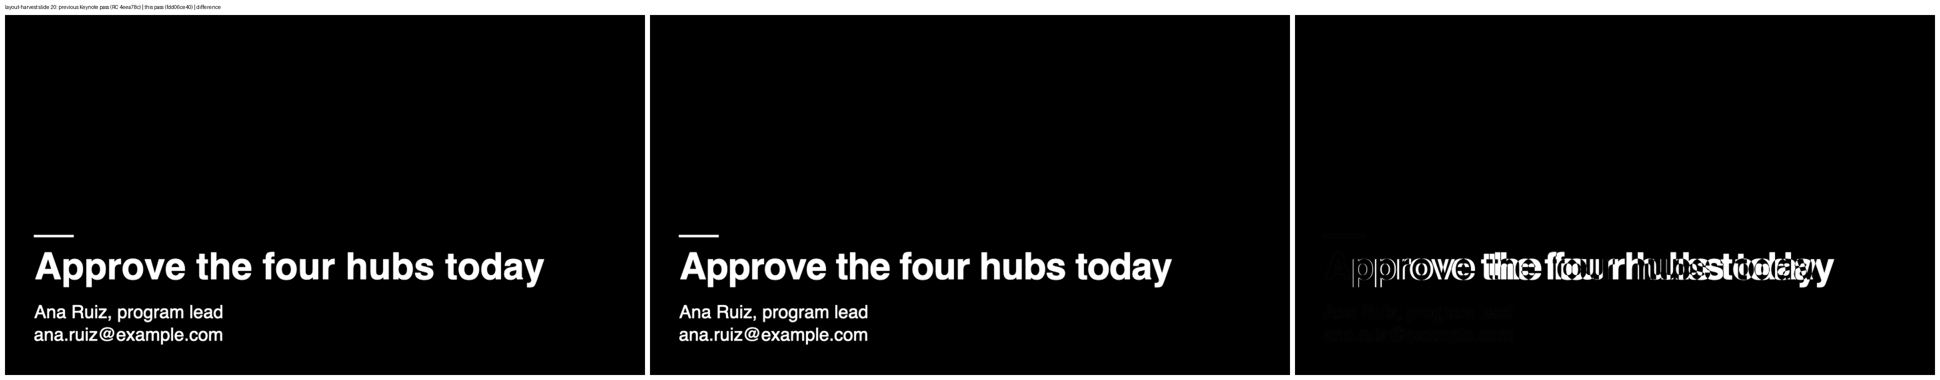
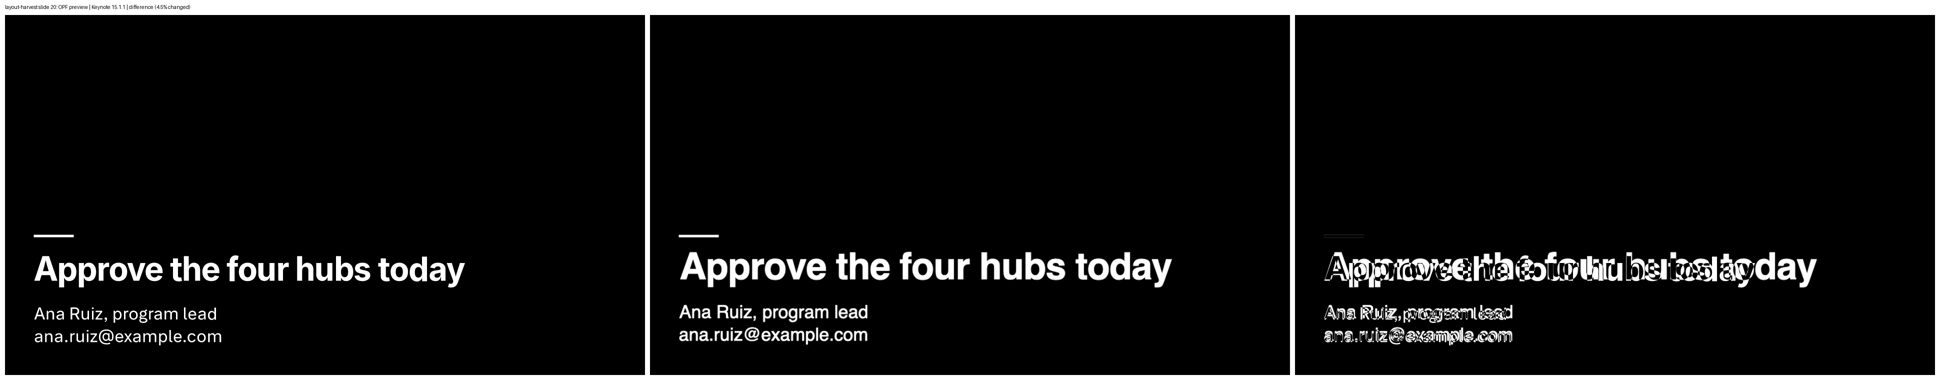
Final Keynote pass: restore preview sheets, comparisons in their own folder, README

diff --git a/mac-034/final-fdd06ce40/README.md b/mac-034/final-fdd06ce40/README.md
@@ -1,0 +1,12 @@
+# Final Keynote pass on the v0.34.0 release content (fdd06ce4084457bece40b074633b2500ddbfdb6a)
+
+Keynote 15.1.1 on macOS 26.6, the qualification corpus built with `scripts/native-acceptance/qualification/build.mjs` (67 files).
+Opened read-only with AppleScript, slides exported as images, documents closed without saving.
+
+- `keynote/<file>/slides/`: Keynote's slide images (hidden slides are not exported). `_probe2.tsv`: Keynote's object model per slide
+  (layout, title showing, title text and paragraphs, title font and size, presenter notes length, fonts of text items, shapes and
+  table cells). `_input-sha-*`: the input's SHA-256 before and after.
+- `final-report.json`: the probe joined with what each PPTX says (`pptx-expect.json`) and the pixel scores against OPF's preview and
+  the earlier Keynote pass. `coverage-grades.md`: the visual review of the 30 coverage decks.
+- `sheets/`: OPF preview | Keynote | difference, for the slides discussed in issue #1278. `sheets-vs-previous/`: earlier Keynote pass
+  (RC 4eea78c) | this pass | difference.
